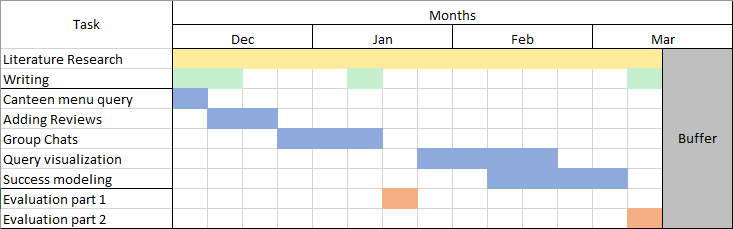
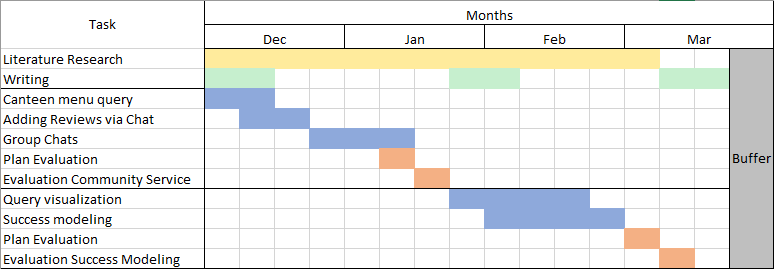
modify project plan

diff --git a/proposal/text/content/6_plan.tex b/proposal/text/content/6_plan.tex
@@ -4,6 +4,6 @@
 \begin{figure}[h]
     \centering
     \includegraphics[width=\linewidth]{project_plan/projectplan.png}
-    \caption{Project Plan}
+    \caption{Project realization timeline}
     \label{fig:projPlan}
 \end{figure}
